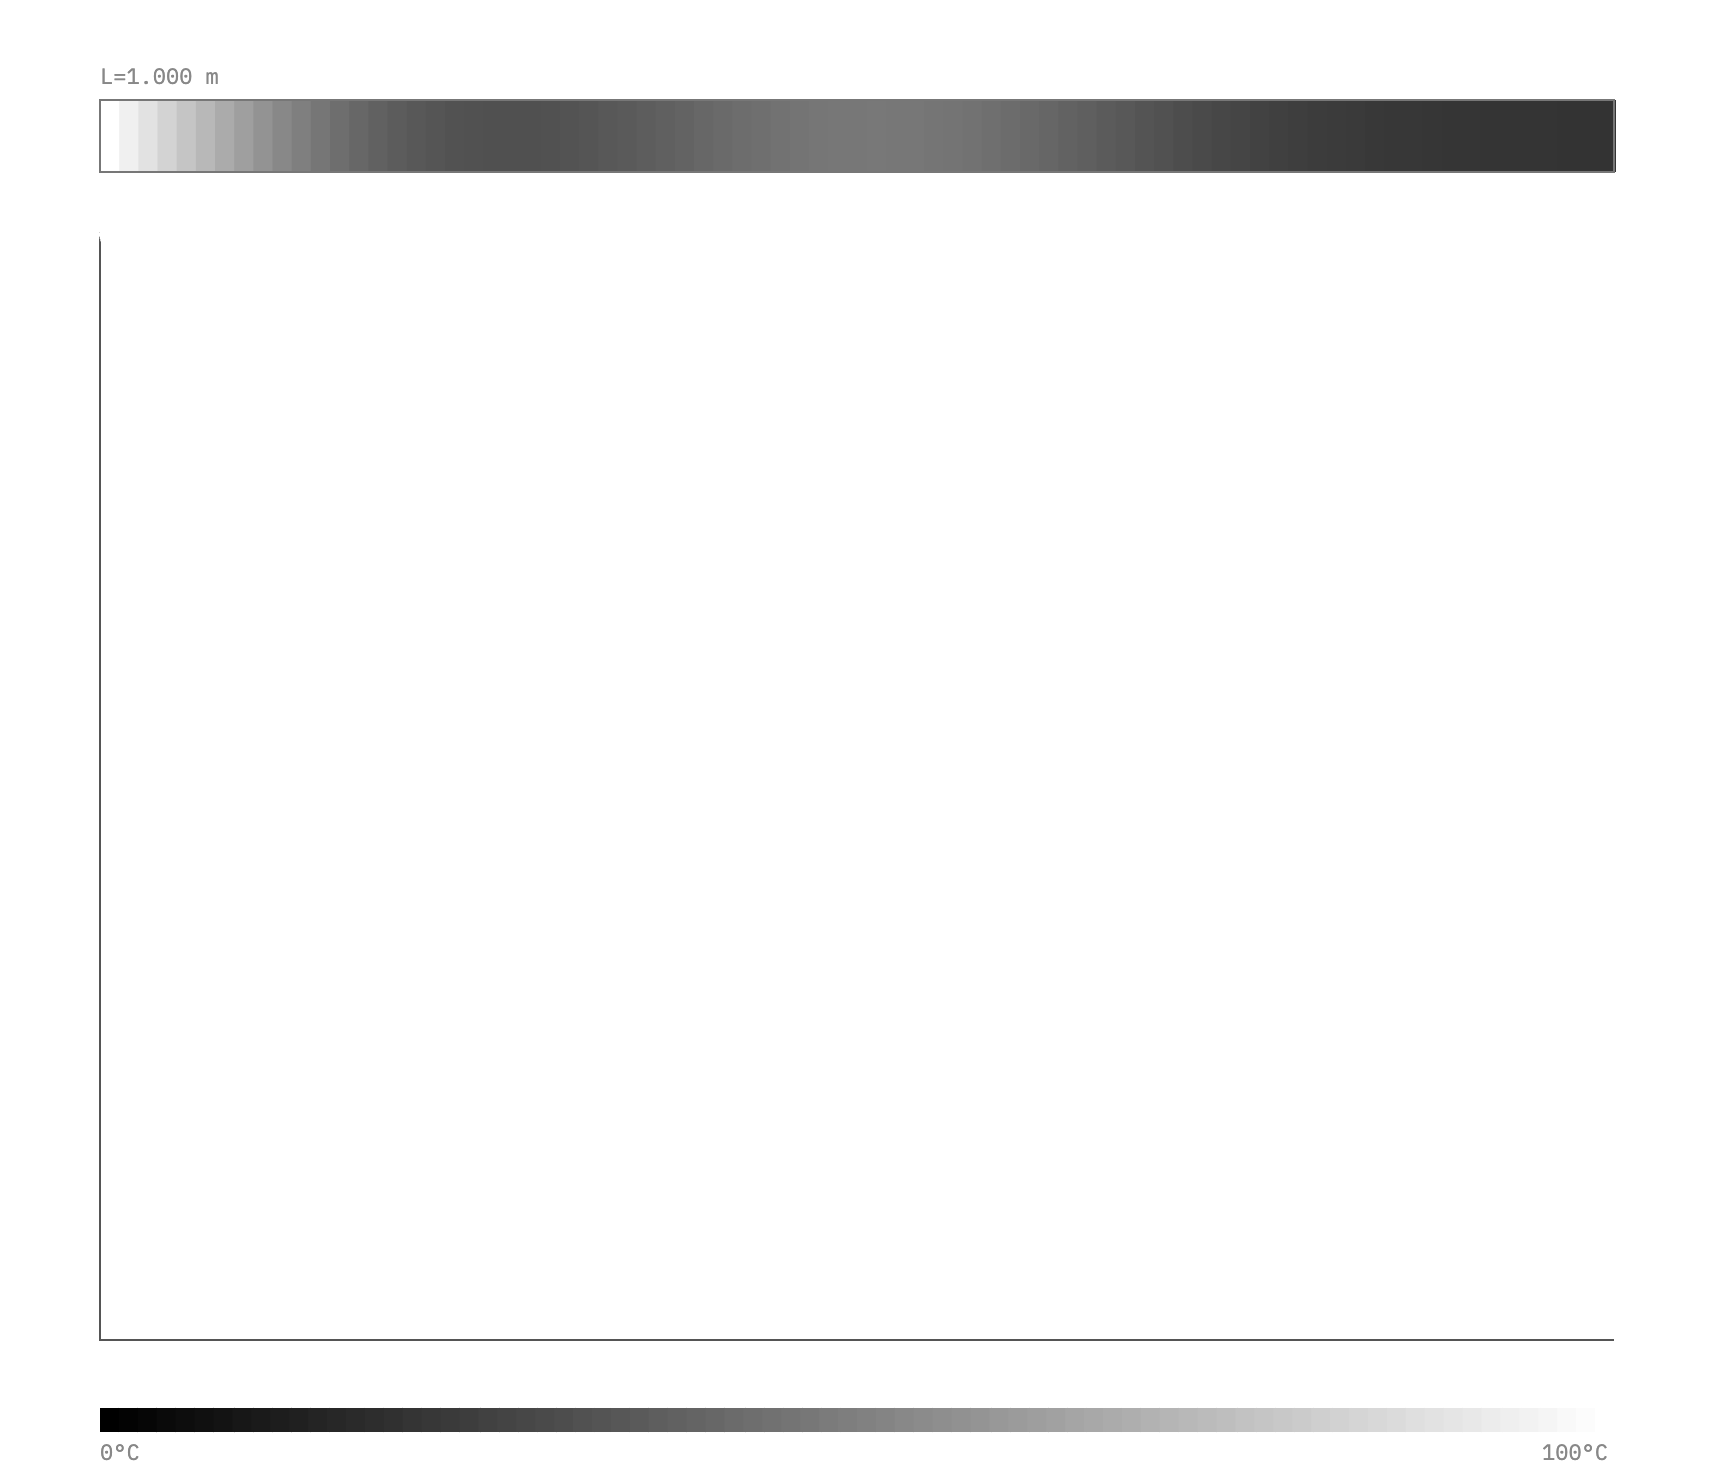
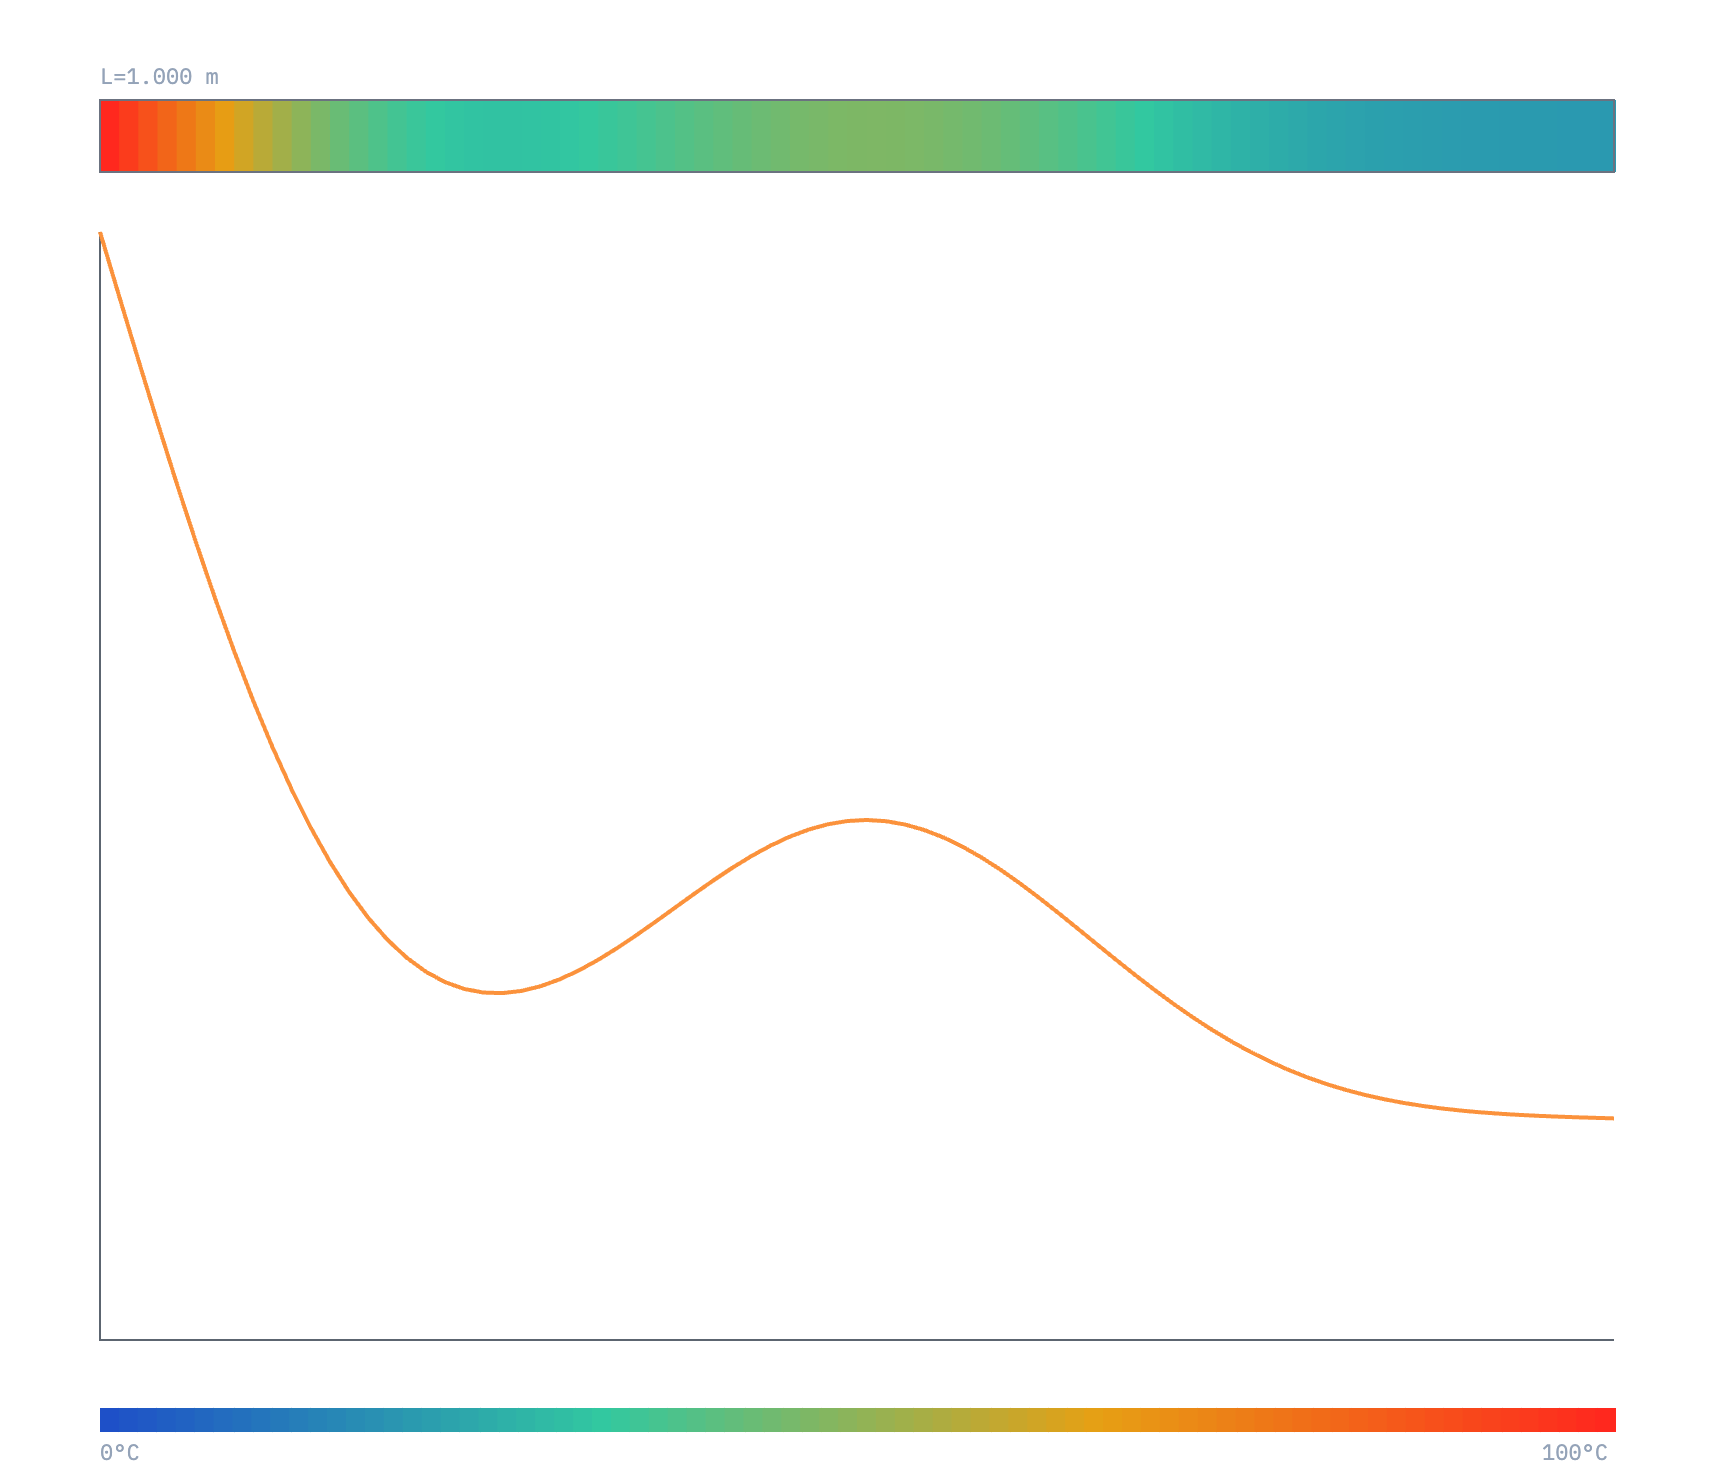
Add per-model canvas color palettes for clearer physics cues.
Heat uses a cold–hot ramp, collision splits blue/red masses, double-pendulum trails map phase to hue; UI chrome stays B&W.

diff --git a/js/utils/theme.js b/js/utils/theme.js
@@ -1,49 +1,160 @@
-/** 纯黑白画布色板；高对比跟随 html.hc */
+/**
+ * 画布色板：界面外壳仍为黑白；各模型用语义色区分物理对象。
+ * html.hc 时提高亮度，保持色相可读。
+ */
 
-function packOled() {
-  return {
-    body: '#ffffff',
-    body2: '#cccccc',
-    accent: '#ffffff',
-    vector: '#eeeeee',
-    trail: 'rgba(255,255,255,0.3)',
-    axis: '#555555',
-    ground: '#777777',
-    muted: '#888888',
-    flash: 'rgba(255,255,255,0.4)',
-    theory: '#666666',
-    text: '#999999',
-    bg: '#000000',
-  };
+let activeModelId = 'free-fall';
+
+const NEUTRAL = {
+  axis: '#5c6570',
+  ground: '#6b7280',
+  muted: '#94a3b8',
+  theory: '#64748b',
+  text: '#94a3b8',
+  bg: '#000000',
+  flash: 'rgba(255, 220, 100, 0.45)',
+};
+
+/** 按模型语义着色 */
+const MODEL = {
+  'free-fall': {
+    body: '#f0b429',       // 球：琥珀
+    body2: '#d97706',
+    accent: '#fb7185',
+    vector: '#2dd4bf',     // 速度：青绿
+    trail: 'rgba(240, 180, 41, 0.4)',
+  },
+  projectile: {
+    body: '#fb923c',       // 弹体 / 轨迹
+    body2: '#ea580c',
+    accent: '#60a5fa',     // vy
+    vector: '#34d399',     // vx
+    trail: 'rgba(251, 146, 60, 0.45)',
+    theory: '#94a3b8',
+  },
+  spring: {
+    body: '#f43f5e',       // 质量块
+    body2: '#14b8a6',      // 弹簧
+    accent: '#fbbf24',
+    vector: '#fde68a',
+    trail: 'rgba(244, 63, 94, 0.35)',
+  },
+  pendulum: {
+    body: '#f97316',       // 摆球
+    body2: '#c2410c',
+    accent: '#4ade80',     // 切向速度
+    vector: '#818cf8',     // 摆杆
+    trail: 'rgba(249, 115, 22, 0.4)',
+  },
+  collision: {
+    body: '#fbbf24',       // m2 描边 / 高光
+    body2: '#ef4444',      // m2 填充
+    accent: '#fbbf24',
+    vector: '#3b82f6',     // m1
+    trail: 'rgba(59, 130, 246, 0.35)',
+    flash: 'rgba(250, 204, 21, 0.5)',
+  },
+  'double-pendulum': {
+    body: '#a78bfa',       // 质点 1
+    body2: '#7c3aed',
+    accent: '#fb7185',     // 质点 2
+    vector: '#cbd5e1',     // 连杆
+    trail: 'rgba(167, 139, 250, 0.4)',
+  },
+  wave: {
+    body: '#22d3ee',       // 波形
+    body2: '#0891b2',
+    accent: '#a5f3fc',
+    vector: '#67e8f9',     // 质点
+    trail: 'rgba(34, 211, 238, 0.35)',
+    ground: '#6366f1',     // 端点固定座
+    theory: 'rgba(148, 163, 184, 0.55)',
+  },
+  heat: {
+    body: '#fb923c',       // T(x) 曲线
+    body2: '#ea580c',
+    accent: '#ef4444',
+    vector: '#38bdf8',
+    trail: 'rgba(251, 146, 60, 0.35)',
+  },
+};
+
+export function setModelPalette(modelId) {
+  activeModelId = MODEL[modelId] ? modelId : 'free-fall';
 }
 
-function packHc() {
-  // 与 OLED 同为黑底白笔，对比更硬
-  return {
-    body: '#ffffff',
-    body2: '#dddddd',
-    accent: '#ffffff',
-    vector: '#ffffff',
-    trail: 'rgba(255,255,255,0.4)',
-    axis: '#666666',
-    ground: '#888888',
-    muted: '#aaaaaa',
-    flash: 'rgba(255,255,255,0.5)',
-    theory: '#777777',
-    text: '#cccccc',
-    bg: '#000000',
-  };
+export function getActiveModelId() {
+  return activeModelId;
+}
+
+function lightenHex(hex, amt = 0.18) {
+  if (!hex || hex[0] !== '#' || (hex.length !== 7 && hex.length !== 4)) return hex;
+  const full = hex.length === 4
+    ? `#${hex[1]}${hex[1]}${hex[2]}${hex[2]}${hex[3]}${hex[3]}`
+    : hex;
+  const n = parseInt(full.slice(1), 16);
+  let r = (n >> 16) & 255;
+  let g = (n >> 8) & 255;
+  let b = n & 255;
+  r = Math.min(255, Math.round(r + (255 - r) * amt));
+  g = Math.min(255, Math.round(g + (255 - g) * amt));
+  b = Math.min(255, Math.round(b + (255 - b) * amt));
+  return `#${((1 << 24) + (r << 16) + (g << 8) + b).toString(16).slice(1)}`;
+}
+
+export function getModelColors(modelId = activeModelId) {
+  const hc = typeof document !== 'undefined'
+    && document.documentElement.classList.contains('hc');
+  const base = { ...NEUTRAL, ...(MODEL[modelId] || MODEL['free-fall']) };
+  if (!hc) return base;
+  const out = { ...base };
+  for (const k of Object.keys(out)) {
+    const v = out[k];
+    if (typeof v === 'string' && v.startsWith('#') && v.length >= 4) {
+      out[k] = lightenHex(v, 0.22);
+    }
+  }
+  return out;
 }
 
 export function getColors() {
-  const hc = typeof document !== 'undefined'
-    && document.documentElement.classList.contains('hc');
-  return hc ? packHc() : packOled();
+  return getModelColors(activeModelId);
 }
 
-/** 运行时取当前色（跟随 html.hc） */
+/** 运行时取当前模型色（跟随 activeModelId + html.hc） */
 export const C = new Proxy({}, {
   get(_t, prop) {
-    return getColors()[prop];
+    return getModelColors(activeModelId)[prop];
   },
 });
+
+/** 热传导：蓝(冷) → 青 → 黄 → 红(热) */
+export function heatTempColor(t, tMin, tMax) {
+  const u = Math.max(0, Math.min(1, (t - tMin) / Math.max(1e-9, tMax - tMin)));
+  // 分段 RGB
+  let r; let g; let b;
+  if (u < 0.33) {
+    const s = u / 0.33;
+    r = 30 + 20 * s;
+    g = 80 + 120 * s;
+    b = 200 - 40 * s;
+  } else if (u < 0.66) {
+    const s = (u - 0.33) / 0.33;
+    r = 50 + 180 * s;
+    g = 200 - 40 * s;
+    b = 160 - 140 * s;
+  } else {
+    const s = (u - 0.66) / 0.34;
+    r = 230 + 25 * s;
+    g = 160 - 120 * s;
+    b = 20 + 10 * s;
+  }
+  return `rgb(${Math.round(r)},${Math.round(g)},${Math.round(b)})`;
+}
+
+/** 双摆轨迹：相空间 → 色相 */
+export function phaseHueColor(theta, omega, alpha = 0.7) {
+  const hue = ((theta * 180) / Math.PI + omega * 40 + 3600) % 360;
+  const light = 48 + 22 * Math.tanh(Math.abs(omega) * 0.25);
+  return `hsla(${hue.toFixed(1)}, 78%, ${light.toFixed(1)}%, ${alpha})`;
+}

diff --git a/js/models/doublePendulum.js b/js/models/doublePendulum.js
@@ -1,12 +1,5 @@
 import { formatNum } from '../utils/draw.js';
-import { C } from '../utils/theme.js';
-
-/** 相空间 → 灰度（θ/ω 映射亮度；纯黑白） */
-function phaseColor(theta, omega, alpha = 0.85) {
-  const u = (Math.sin(theta) * 0.5 + 0.5 + Math.tanh(omega * 0.35) * 0.5) / 1.5;
-  const g = Math.round(40 + 200 * Math.max(0, Math.min(1, u)));
-  return `rgba(${g},${g},${g},${alpha})`;
-}
+import { C, phaseHueColor } from '../utils/theme.js';
 
 /**
  * 双摆：拉格朗日方程数值积分（半隐式欧拉）
@@ -88,13 +81,13 @@ export default {
     const scale = Math.min(W, H) * 0.28 / Math.max(L1 + L2, 0.5);
     const toS = (x, y) => ({ x: pivot.x + x * scale, y: pivot.y - y * scale });
 
-    // 相空间灰度轨迹
+    // 相空间色相轨迹（θ₁/ω₁ → hue）
     for (let i = 1; i < state.trail.length; i += 1) {
       const a = state.trail[i - 1];
       const b = state.trail[i];
       const sa = toS(a.x, a.y);
       const sb = toS(b.x, b.y);
-      ctx.strokeStyle = phaseColor(b.th1, b.w1, 0.55);
+      ctx.strokeStyle = phaseHueColor(b.th1, b.w1, 0.62);
       ctx.lineWidth = 1.6;
       ctx.beginPath();
       ctx.moveTo(sa.x, sa.y);
@@ -132,7 +125,7 @@ export default {
 
     ctx.fillStyle = C.muted;
     ctx.font = '11px IBM Plex Mono, monospace';
-    ctx.fillText('轨迹灰度∝θ₁,ω₁', 12, H - 14);
+    ctx.fillText('轨迹色相∝θ₁,ω₁', 12, H - 14);
   },
 
   getReadouts(state) {

diff --git a/js/models/heat.js b/js/models/heat.js
@@ -1,12 +1,5 @@
 import { formatNum } from '../utils/draw.js';
-import { C } from '../utils/theme.js';
-
-/** 温度 → 灰度（纯黑白） */
-function tempColor(t, tMin, tMax) {
-  const u = Math.max(0, Math.min(1, (t - tMin) / Math.max(1e-9, tMax - tMin)));
-  const g = Math.round(255 * u);
-  return `rgb(${g},${g},${g})`;
-}
+import { C, heatTempColor } from '../utils/theme.js';
 
 /**
  * 一维热传导：∂T/∂t = α ∂²T/∂x²
@@ -84,9 +77,9 @@ export default {
     const barW = W - margin.l - margin.r;
     const cellW = barW / (N - 1);
 
-    // 灰度温度条
+    // 温度条：蓝冷 → 红热
     for (let i = 0; i < N - 1; i += 1) {
-      ctx.fillStyle = tempColor(T[i], tMin, tMax);
+      ctx.fillStyle = heatTempColor(T[i], tMin, tMax);
       ctx.fillRect(margin.l + i * cellW, barY, cellW + 1, barH);
     }
     ctx.strokeStyle = C.ground;
@@ -121,7 +114,7 @@ export default {
     for (let i = 0; i < 80; i += 1) {
       const u = i / 79;
       const temp = tMin + u * (tMax - tMin);
-      ctx.fillStyle = tempColor(temp, tMin, tMax);
+      ctx.fillStyle = heatTempColor(temp, tMin, tMax);
       ctx.fillRect(margin.l + i * (barW / 80), legendY, barW / 80 + 1, 12);
     }
     ctx.fillStyle = C.muted;

diff --git a/js/models/collision.js b/js/models/collision.js
@@ -96,14 +96,14 @@ export default {
 
     if (state.flash > 0) {
       const alpha = state.flash / 0.3;
-      ctx.strokeStyle = `rgba(255, 255, 255, ${alpha * 0.35})`;
-      ctx.lineWidth = 1.5;
+      ctx.strokeStyle = `rgba(250, 204, 21, ${alpha * 0.55})`;
+      ctx.lineWidth = 2;
       ctx.beginPath();
       ctx.arc(X((state.x1 + state.x2) / 2), y, 18 + (1 - alpha) * 10, 0, Math.PI * 2);
       ctx.stroke();
     }
 
-    // m1：实心亮；m2：深灰填充 + 白线框，避免两球糊成一团
+    // m1 蓝实心；m2 红填充 + 金描边
     ctx.fillStyle = C.vector;
     ctx.beginPath();
     ctx.arc(X(state.x1), y, r1, 0, Math.PI * 2);
@@ -113,7 +113,7 @@ export default {
     ctx.arc(X(state.x2), y, r2, 0, Math.PI * 2);
     ctx.fill();
     ctx.strokeStyle = C.body;
-    ctx.lineWidth = 2;
+    ctx.lineWidth = 2.5;
     ctx.beginPath();
     ctx.arc(X(state.x2), y, r2, 0, Math.PI * 2);
     ctx.stroke();

diff --git a/js/main.js b/js/main.js
@@ -5,6 +5,7 @@ import { downloadCanvasPng, downloadCsv, composeExport } from './utils/export.js
 import { createParamBench } from './ui/paramBench.js';
 import { finiteOr, sanitizeGlobals } from './utils/params.js';
 import { btnHtml } from './ui/icons.js';
+import { setModelPalette } from './utils/theme.js';
 
 const canvas = document.getElementById('canvas');
 const canvasWrap = document.querySelector('.canvas-wrap');
@@ -246,6 +247,7 @@ function measureSysSticky() {
 function switchModel(id) {
   const model = getModelById(id);
   app.model = model;
+  setModelPalette(model.id);
   app.state = createState(model);
   stepper.reset();
   toolbarTitle.textContent = model.name;

diff --git a/js/models/wave.js b/js/models/wave.js
@@ -91,7 +91,7 @@ export default {
     ctx.setLineDash([]);
 
     ctx.setLineDash([3, 4]);
-    ctx.strokeStyle = 'rgba(255,255,255,0.28)';
+    ctx.strokeStyle = C.theory;
     ctx.beginPath();
     for (let i = 0; i <= N + 1; i += 1) {
       const x = i * dx;
@@ -107,7 +107,7 @@ export default {
     ctx.setLineDash([]);
 
     ctx.strokeStyle = C.body;
-    ctx.lineWidth = 2;
+    ctx.lineWidth = 2.5;
     ctx.beginPath();
     for (let i = 0; i <= N + 1; i += 1) {
       const px = X(i * dx);

diff --git a/js/utils/draw.js b/js/utils/draw.js
@@ -1,5 +1,5 @@
 /** 绘制箭头（从 (x,y) 指向 tip） */
-export function drawArrow(ctx, x, y, tipX, tipY, color = '#ffffff', width = 2) {
+export function drawArrow(ctx, x, y, tipX, tipY, color = '#2dd4bf', width = 2) {
   const dx = tipX - x;
   const dy = tipY - y;
   const len = Math.hypot(dx, dy);

diff --git a/README.md b/README.md
@@ -1,6 +1,6 @@
 # Physics Lab
 
-纯前端物理演示：8 个模型 · 自定义参数工作台 · 纯黑白界面。
+纯前端物理演示：8 个模型 · 自定义参数工作台 · 黑白外壳 + 分模型语义彩绘。
 
 ## 启动
 
@@ -43,6 +43,7 @@ npm run test:all
 
 ## 说明
 
+- 画布按模型着色（碰撞蓝/红双球、热传导冷热色标、双摆相空间色相等）；UI 外壳仍为黑白
 - 截图：`sys → frame shot` / `shot readouts`（导出固定 2× DPR，随后恢复屏幕 DPR）
 - 窄屏：汉堡打开模型列表；点遮罩关闭；宽屏三栏不显示汉堡
 - 自定义常量：见 [manual.html](./manual.html)
